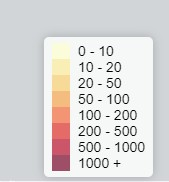
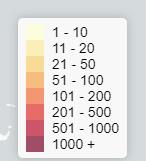
lec 09

diff --git a/lectures/lec09/index.html b/lectures/lec09/index.html
@@ -66,8 +66,8 @@
 </head>
 <body>
 <div id='map'></div>
-<div class='info'><h1>US Population Density</h1><div class='update'>Hover over a state</div></div>
-<div class='legend'></div>
+<!-- <div class='info'><h1>US Population Density</h1><div class='update'>Hover over a state</div></div>
+<div class='legend'></div> -->
 <script type="text/javascript">
 
     // 1. create the map object and the base layer.
@@ -89,7 +89,7 @@
         for (var i = 0; i < grades.length - 1; i++) {
             if ( d > grades[i] && d < grades[i+1] ) return colors[i];
         }
-        if (d > grades[grades.length - 1]) return colors[grades.length];
+        if (d > grades[grades.length - 1]) return colors[grades.length - 1];
     }
 
     // determine the style class based on the input feature
@@ -156,7 +156,7 @@
     // 4. create the legend
     var labels = [];
     for (var i = 0; i < grades.length - 1; i++) {
-        labels.push('<i style="background:' + colors[i] + '"></i> ' + grades[i] + ' - ' + grades[i + 1]);
+        labels.push('<i style="background:' + colors[i] + '"></i> ' + (grades[i] + 1) + ' - ' + grades[i + 1]);
     }
     labels.push('<i style="background:' + colors[grades.length - 1] + '"></i> ' + grades[grades.length - 1] + ' +');
     $(".legend").html(labels.join('<br>'));
